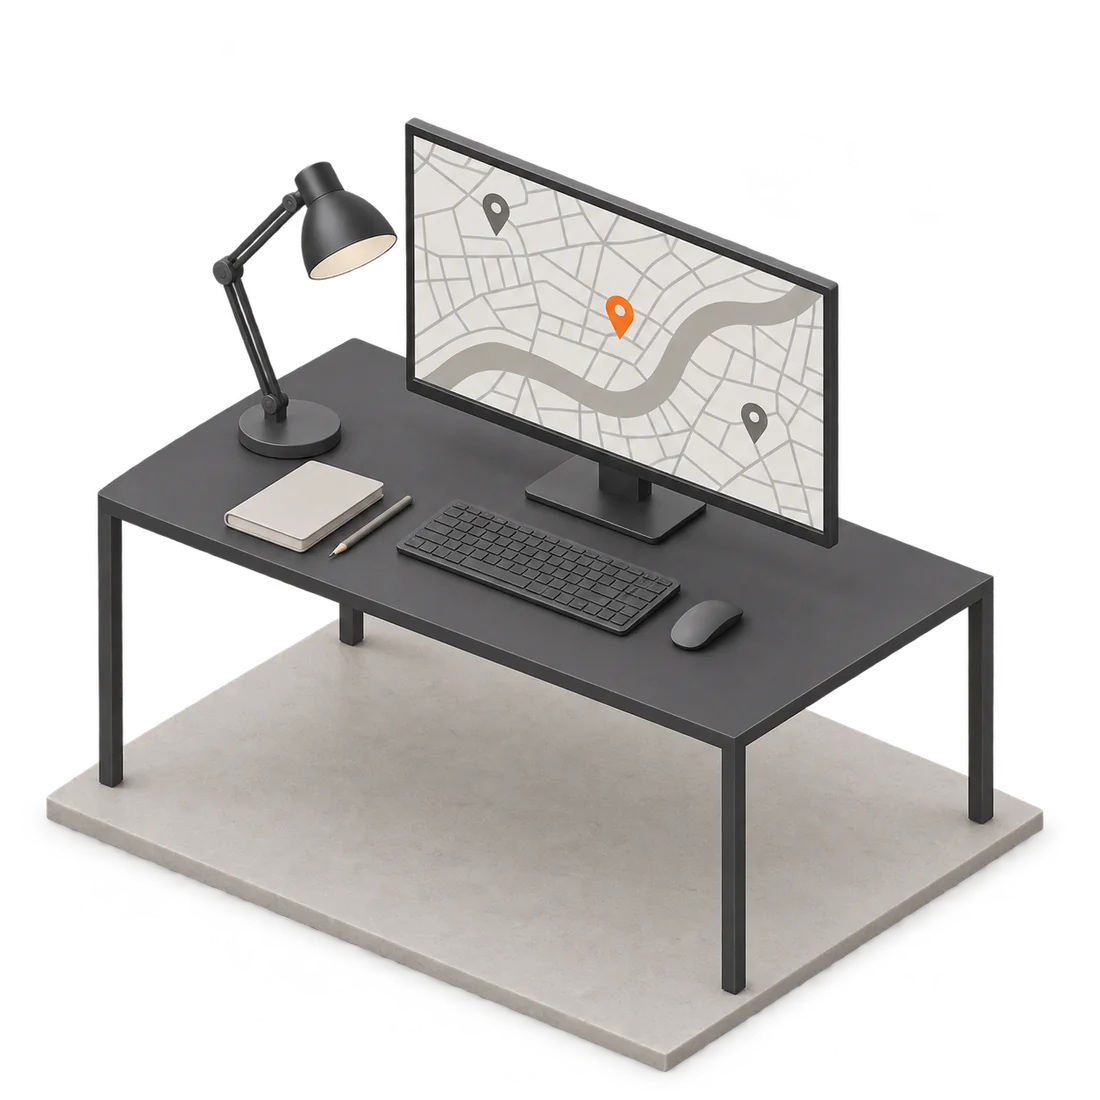
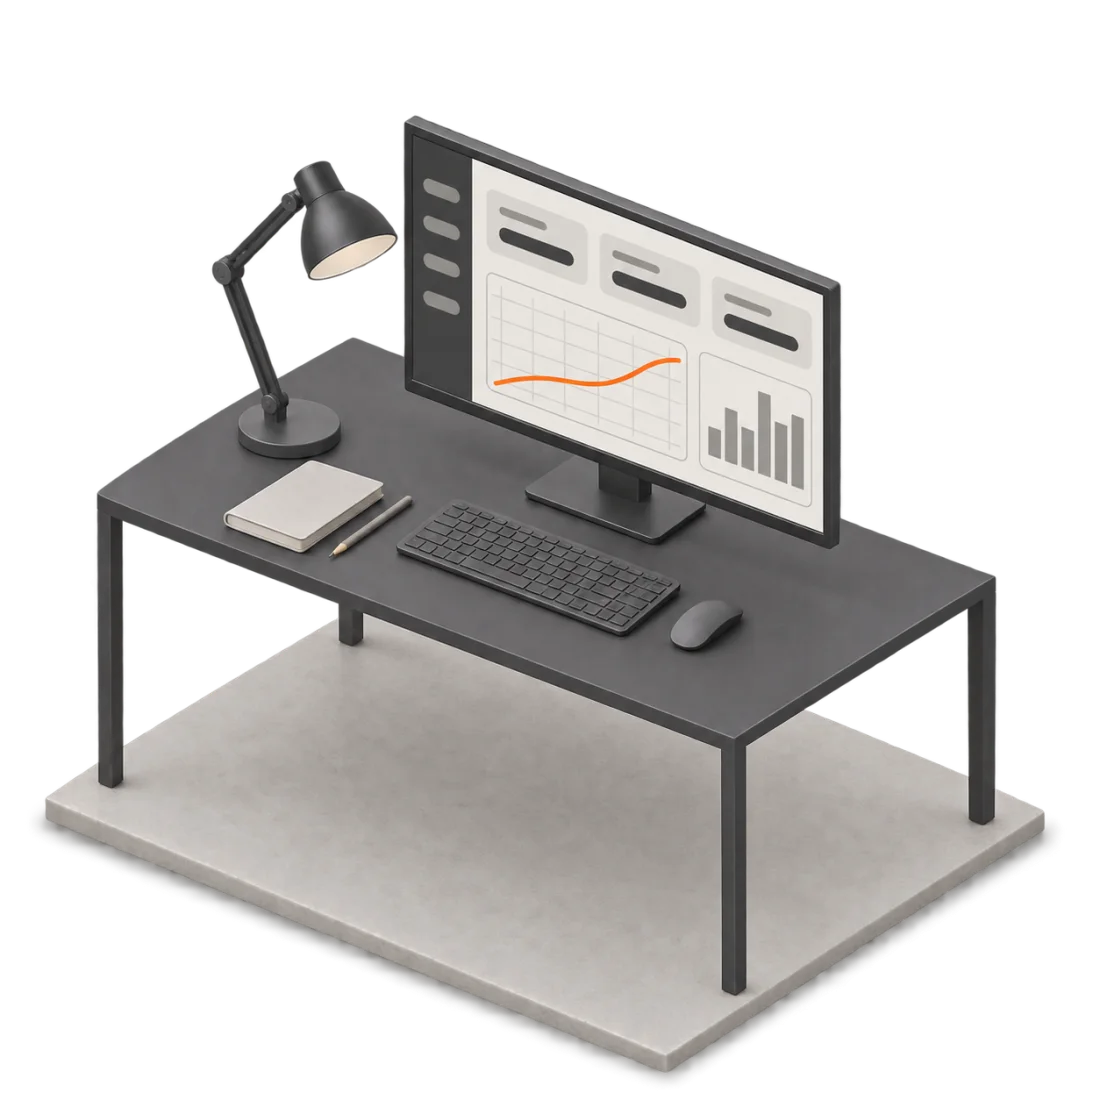
Ce que je fais : l'écran du bureau montre un tableau de bord, le serveur gagne son écran de suivi et son cadenas
Retour du 15/11 : plus de carte ni de repère sur l'écran du bureau, et une scène de mise en production plus parlante que la baie seule. Le téléphone ne change pas. Textes alternatifs mis à jour en français et en anglais.

diff --git a/app/data/content.ts b/app/data/content.ts
@@ -50,13 +50,13 @@ const fr = {
         id: "desk",
         text: "Des applications web modernes, avec intégration d’intelligence artificielle, pour les cas d’usage les plus exigeants.",
         tools: "Laravel, React",
-        alt: "Un bureau, avec un écran qui affiche une carte et ses repères.",
+        alt: "Un bureau avec une lampe et un clavier, devant un écran qui affiche un tableau de bord\u202f: une courbe, des barres et trois indicateurs.",
       },
       {
         id: "server",
         text: "Une mise en production maîtrisée\u202f: déploiement, sécurité et suivi, sans intermédiaire.",
         tools: "Linux, Docker",
-        alt: "Une baie de serveurs, câbles rangés.",
+        alt: "Un serveur compact relié à un petit écran de suivi qui affiche une courbe, avec un cadenas et sa clé posés devant.",
       },
     ],
   },
@@ -185,13 +185,13 @@ const en: SiteContent = {
         id: "desk",
         text: "Modern web applications with integrated artificial intelligence, built for the most demanding use cases.",
         tools: "Laravel, React",
-        alt: "A desk with a screen showing a map and its pins.",
+        alt: "A desk with a lamp and a keyboard, facing a screen that shows a dashboard: a curve, bars and three indicators.",
       },
       {
         id: "server",
         text: "Controlled production releases: deployment, security and monitoring, with no intermediary.",
         tools: "Linux, Docker",
-        alt: "A server rack with tidy cables.",
+        alt: "A compact server wired to a small monitoring screen showing a curve, with a padlock and its key lying in front.",
       },
     ],
   },
